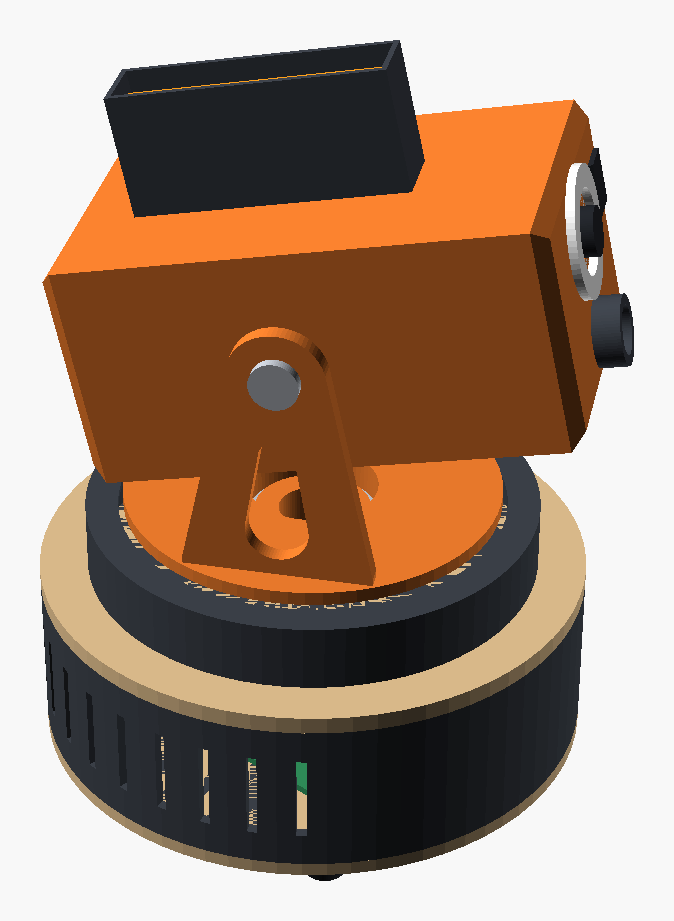
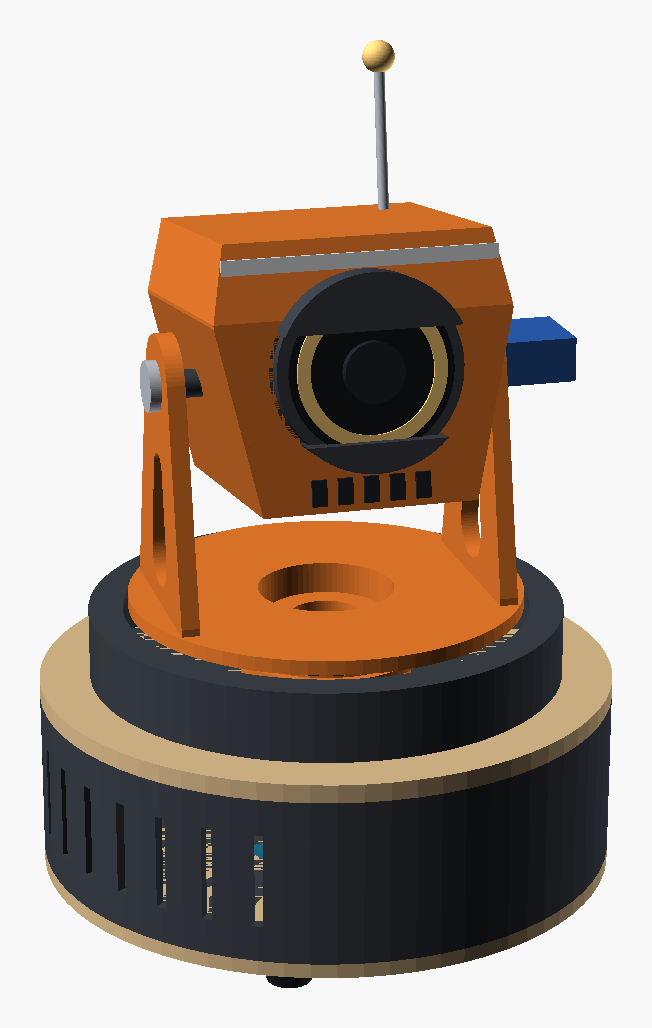
Adopt the cyclops head and move the brain into it
The head is now a one-eyed cyclops (camera as pupil, shutters, antenna),
with a sensor version and a launcher version. The Raspberry Pi Zero 2 and
its CSI camera sit in the head; a Raspberry Pi Pico in the base drives the
steppers. The earlier head studies stay selectable through head_style.

Claude-Session: https://claude.ai/code/session_01UhhE4AyNSV4cwT1wmxKGh3

diff --git a/README.md b/README.md
@@ -1,8 +1,8 @@
 # Strix
 
 A desktop sentry robot that sits still and turns its head, like the owl it is
-named after. About 22 cm tall, with a pan/tilt turret head, a swappable payload
-(camera, sensors, foam-dart launcher) and a base that is ready to ride a rail.
+named after. About 19 cm tall, with a one-eyed pan/tilt turret head, a swappable
+payload (camera, sensors, foam-dart launcher) and a base that is ready to ride a rail.
 
 ![Render of the robot](docs/img/hero.png)
 
@@ -14,7 +14,7 @@ named after. About 22 cm tall, with a pan/tilt turret head, a swappable payload
 
 | | |
 |---|---|
-| Height | 216 mm with launcher, ~170 mm with the sensor head |
+| Height | 187 mm to the top of the head, 234 mm to the antenna tip (216 mm to the magazine with the launcher) |
 | Base | Ø 160 mm |
 | Pan | ±170°, NEMA17 + GT2 belt, 4:1 reduction |
 | Tilt | −15° … +35°, MG90S servo |
@@ -25,24 +25,44 @@ named after. About 22 cm tall, with a pan/tilt turret head, a swappable payload
 - **Base (fixed):** pan motor, electronics and power. Flat plates for laser cutting.
 - **Turntable:** an 80-tooth pulley printed as one part, riding on a 6806 bearing
   over a hollow spigot that lets the cables through (Ø 20 mm bore).
-- **Cradle:** the head itself. It tilts between two arms and is a swappable module.
+- **Head:** a cyclops. Its single eye has a camera for a pupil, a glowing iris and two
+  shutters that blink and squint. It tilts between two arms and is a swappable module.
 - **Rail:** a separate module. The robot bolts to the carriage through the four
   M4 holes (100 mm square) that otherwise hold its rubber feet.
 
 ![Lengthwise section](docs/img/cut.png)
+
+## Electronics
+
+| Part | Where | Job |
+|---|---|---|
+| Raspberry Pi Zero 2 | Head | Brain: vision and behaviour |
+| Raspberry Pi camera (CSI) | Head, behind the pupil | Vision. The ribbon stays short and never crosses a rotating joint |
+| Raspberry Pi Pico | Base | Step generation for both steppers, servos, sensors, LEDs |
+| 2 × stepper driver (TMC2209 or A4988) | Base | Pan and rail motors |
+| 12–24 V supply + 5 V buck (~3 A) | Base | Motors on the high rail; Pi, Pico and servos on 5 V |
+
+Only 5 V power and a serial link run up through the hollow pan axis.
 
 The stepper motors from an Ender 3 (NEMA17 42-34 with a 20-tooth pulley) work
 as they are for both the pan drive and the rail; the model is sized around them.
 
 ## Phases
 
-1. Base, pan and tilt with the sensor head.
-2. Launcher head.
+1. Base, pan and tilt with the sensor head (the default view above).
+2. Launcher head: the same face with a jaw for the flywheels and a magazine on top.
 3. Rail.
 
-| Sensor head | Exploded view | On the rail |
+| Launcher head | Exploded view | On the rail |
 |---|---|---|
-| ![](docs/img/sensor.png) | ![](docs/img/explode.png) | ![](docs/img/rail.png) |
+| ![](docs/img/launcher.png) | ![](docs/img/explode.png) | ![](docs/img/rail.png) |
+
+### Head studies
+
+Four heads were sketched on the same base before settling on the cyclops. The
+others are still in the model (`head_style`).
+
+![Head options](docs/img/head-options.png)
 
 ## Model
 
@@ -50,14 +70,17 @@ as they are for both the pan drive and the rail; the model is sized around them.
 switches are at the top of the file:
 
 ```bash
-# assembled view
+# assembled view (sensor head)
 openscad cad/strix-v0.1.scad -o out/hero.png
 
-# sensor head, exploded view, section and rail
-openscad cad/strix-v0.1.scad -o out/sensor.png  -D show_launcher=false
-openscad cad/strix-v0.1.scad -o out/explode.png -D explode=1
-openscad cad/strix-v0.1.scad -o out/cut.png     -D cutaway=true -D pan=0 -D tilt=0
-openscad cad/strix-v0.1.scad -o out/rail.png    -D show_rail=true
+# launcher head, exploded view, section and rail
+openscad cad/strix-v0.1.scad -o out/launcher.png -D show_launcher=true
+openscad cad/strix-v0.1.scad -o out/explode.png  -D show_launcher=true -D explode=1
+openscad cad/strix-v0.1.scad -o out/cut.png      -D show_launcher=true -D cutaway=true -D pan=0 -D tilt=0
+openscad cad/strix-v0.1.scad -o out/rail.png     -D show_rail=true
+
+# another head study
+openscad cad/strix-v0.1.scad -o out/owl.png -D 'head_style="owl"'
 ```
 
 Model colours: orange and dark grey = 3D printed, wood = laser cut,
@@ -69,3 +92,4 @@ silver and black = off the shelf, green = electronics.
 - Measure the pan centre distance (46.0 mm calculated) with the real belt.
 - Verify the V-wheel spacing across the extrusion (59.7 mm).
 - Tune the launcher: flywheel gap, pusher and magazine.
+- Design the eye shutter mechanism (one micro servo) and the iris lighting.
